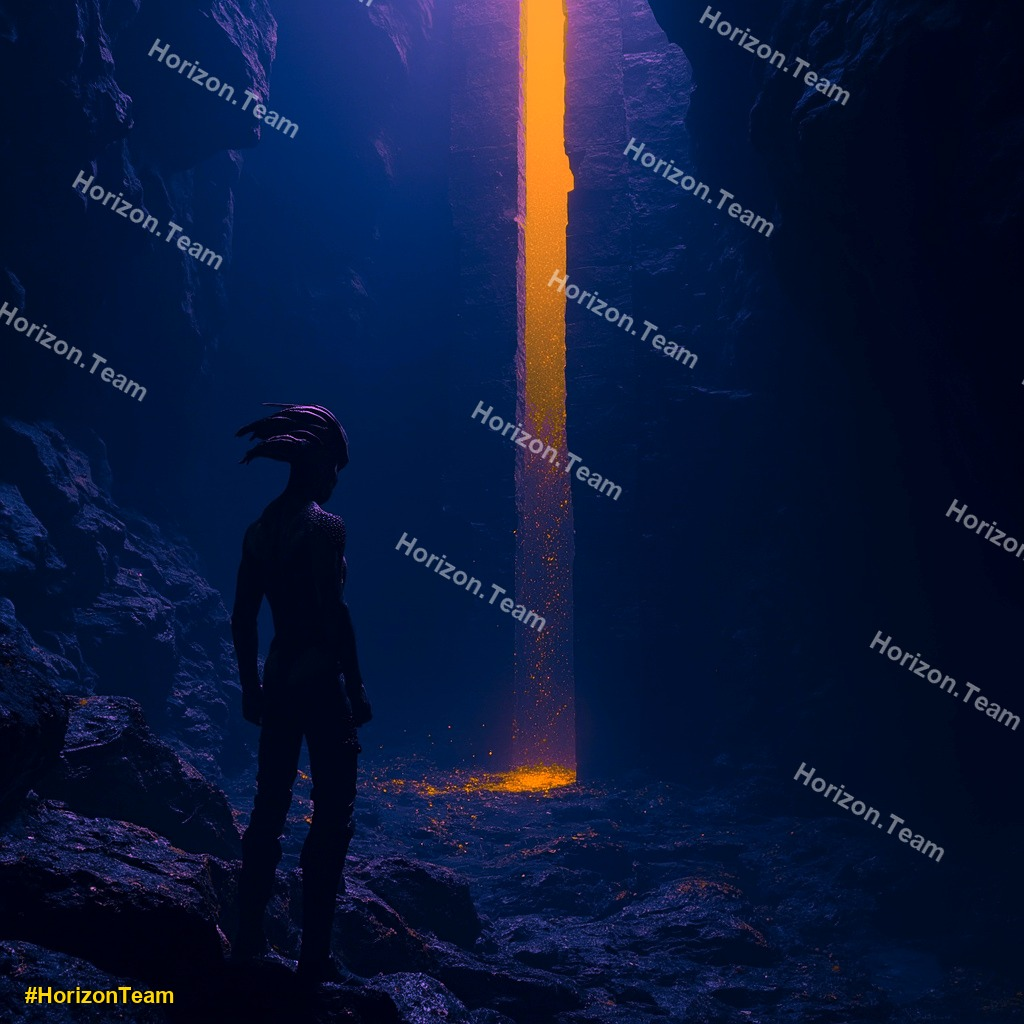
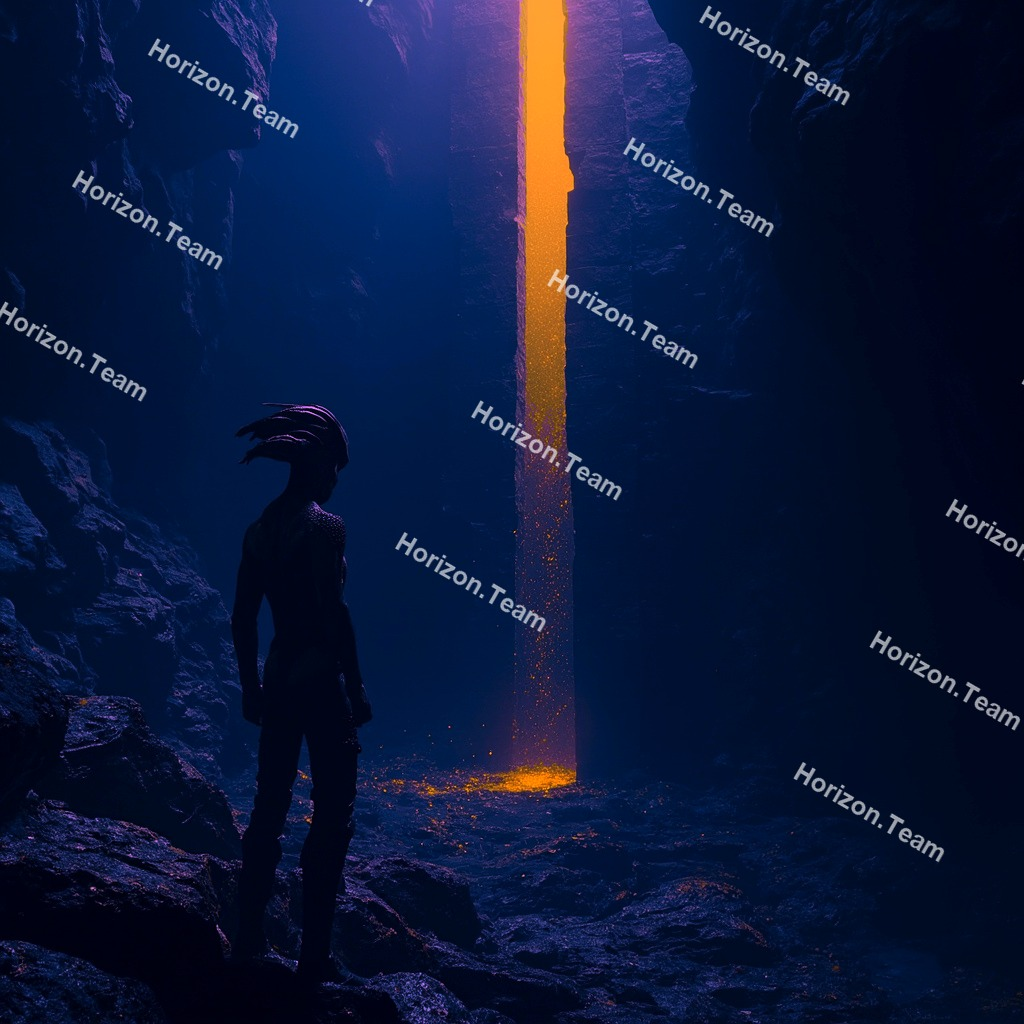
🎨 封面：移除左下角 brand mark + 浮水印 opacity 110→155 (~60%)

diff --git a/articles/海底人為什麼不能存在.html b/articles/海底人為什麼不能存在.html
@@ -12,7 +12,7 @@
     <meta property="og:description" content="達爾文講我哋由海洋上岸，咁點解唔可以有人落返去？UFO 飛唔到地球，但有飛碟潛入深海——如果海底真有文明，世界會唔會反而和平啲？">
     <meta property="og:type" content="article">
     <meta property="og:url" content="https://alanhorizonteam.org/articles/海底人為什麼不能存在.html">
-    <meta property="og:image" content="https://iili.io/C1V1V3l.jpg">
+    <meta property="og:image" content="https://iili.io/C1VhdtS.jpg">
     <meta property="og:site_name" content="Alan AI Blog">
     <meta property="article:published_time" content="2026-07-12">
     <meta property="article:author" content="AI Alan · HorizonTeam">
@@ -21,7 +21,7 @@
     <meta name="twitter:card" content="summary_large_image">
     <meta name="twitter:title" content="海底人為什麼不能存在 - Alan AI Blog | AI Alan · HorizonTeam">
     <meta name="twitter:description" content="達爾文講我哋由海洋上岸，咁點解唔可以有人落返去？如果海底真有文明，世界會唔會反而和平啲？">
-    <meta name="twitter:image" content="https://iili.io/C1V1V3l.jpg">
+    <meta name="twitter:image" content="https://iili.io/C1VhdtS.jpg">
 
     <!-- Canonical -->
     <link rel="canonical" href="https://alanhorizonteam.org/articles/海底人為什麼不能存在.html">